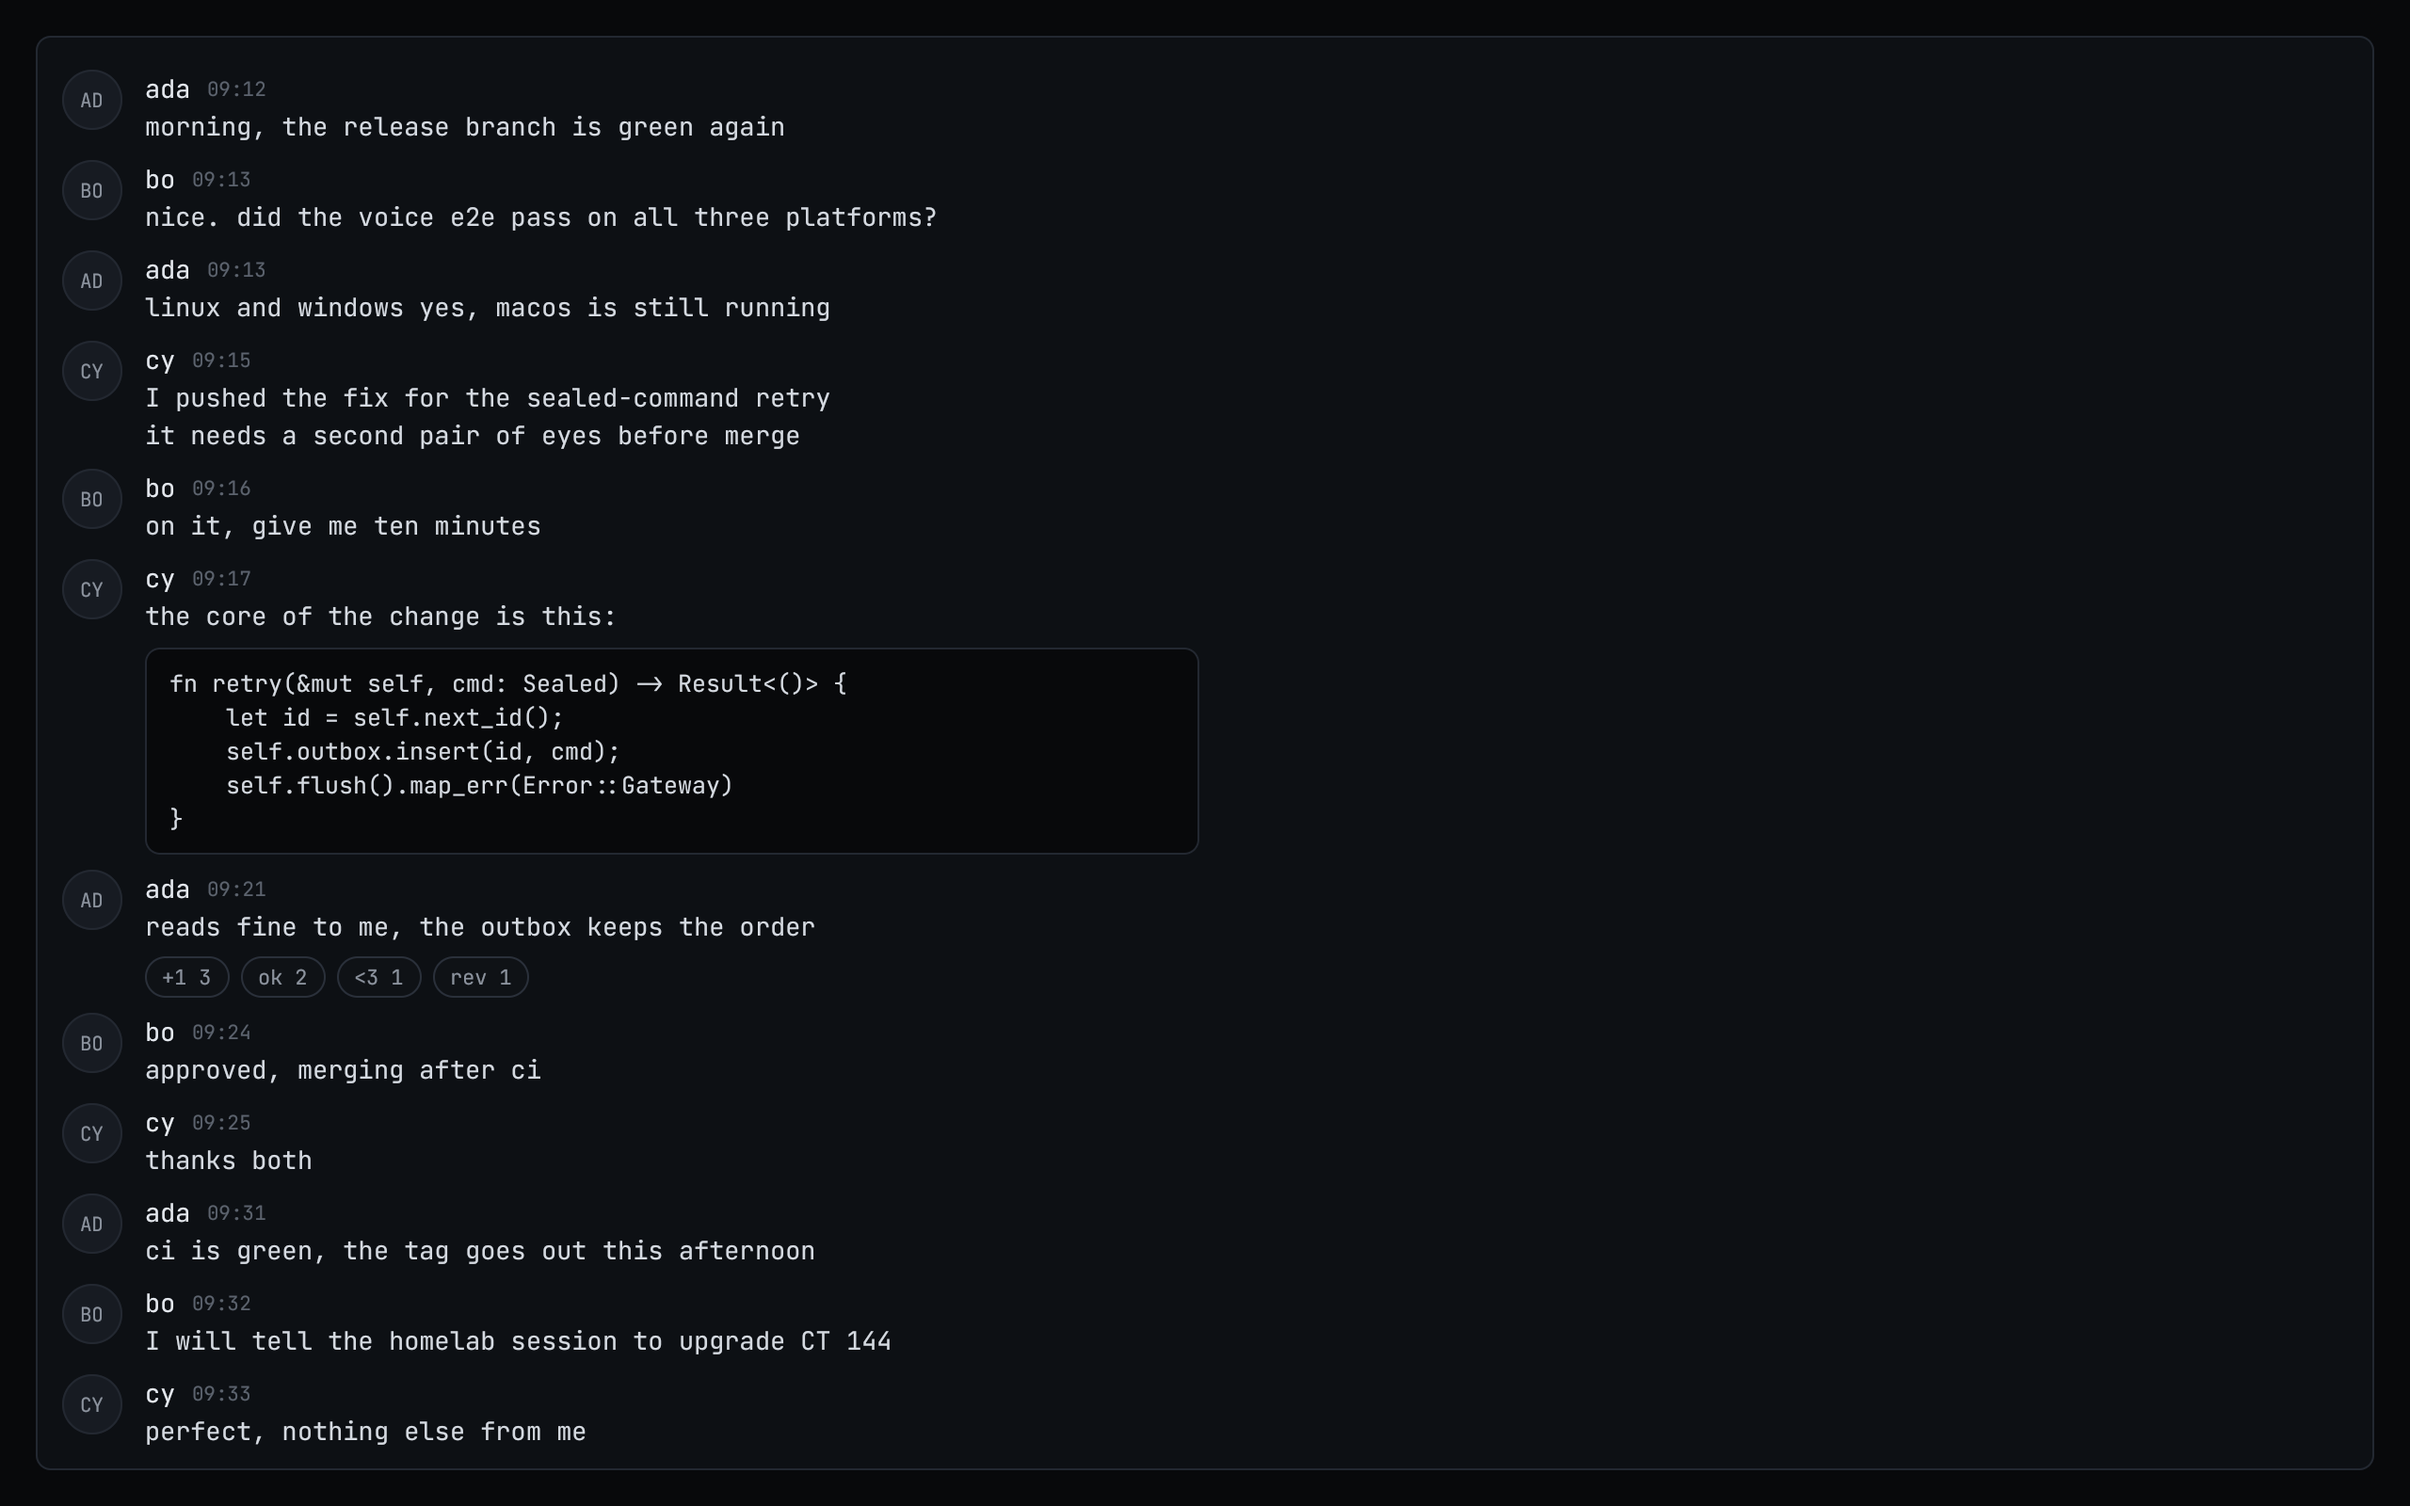
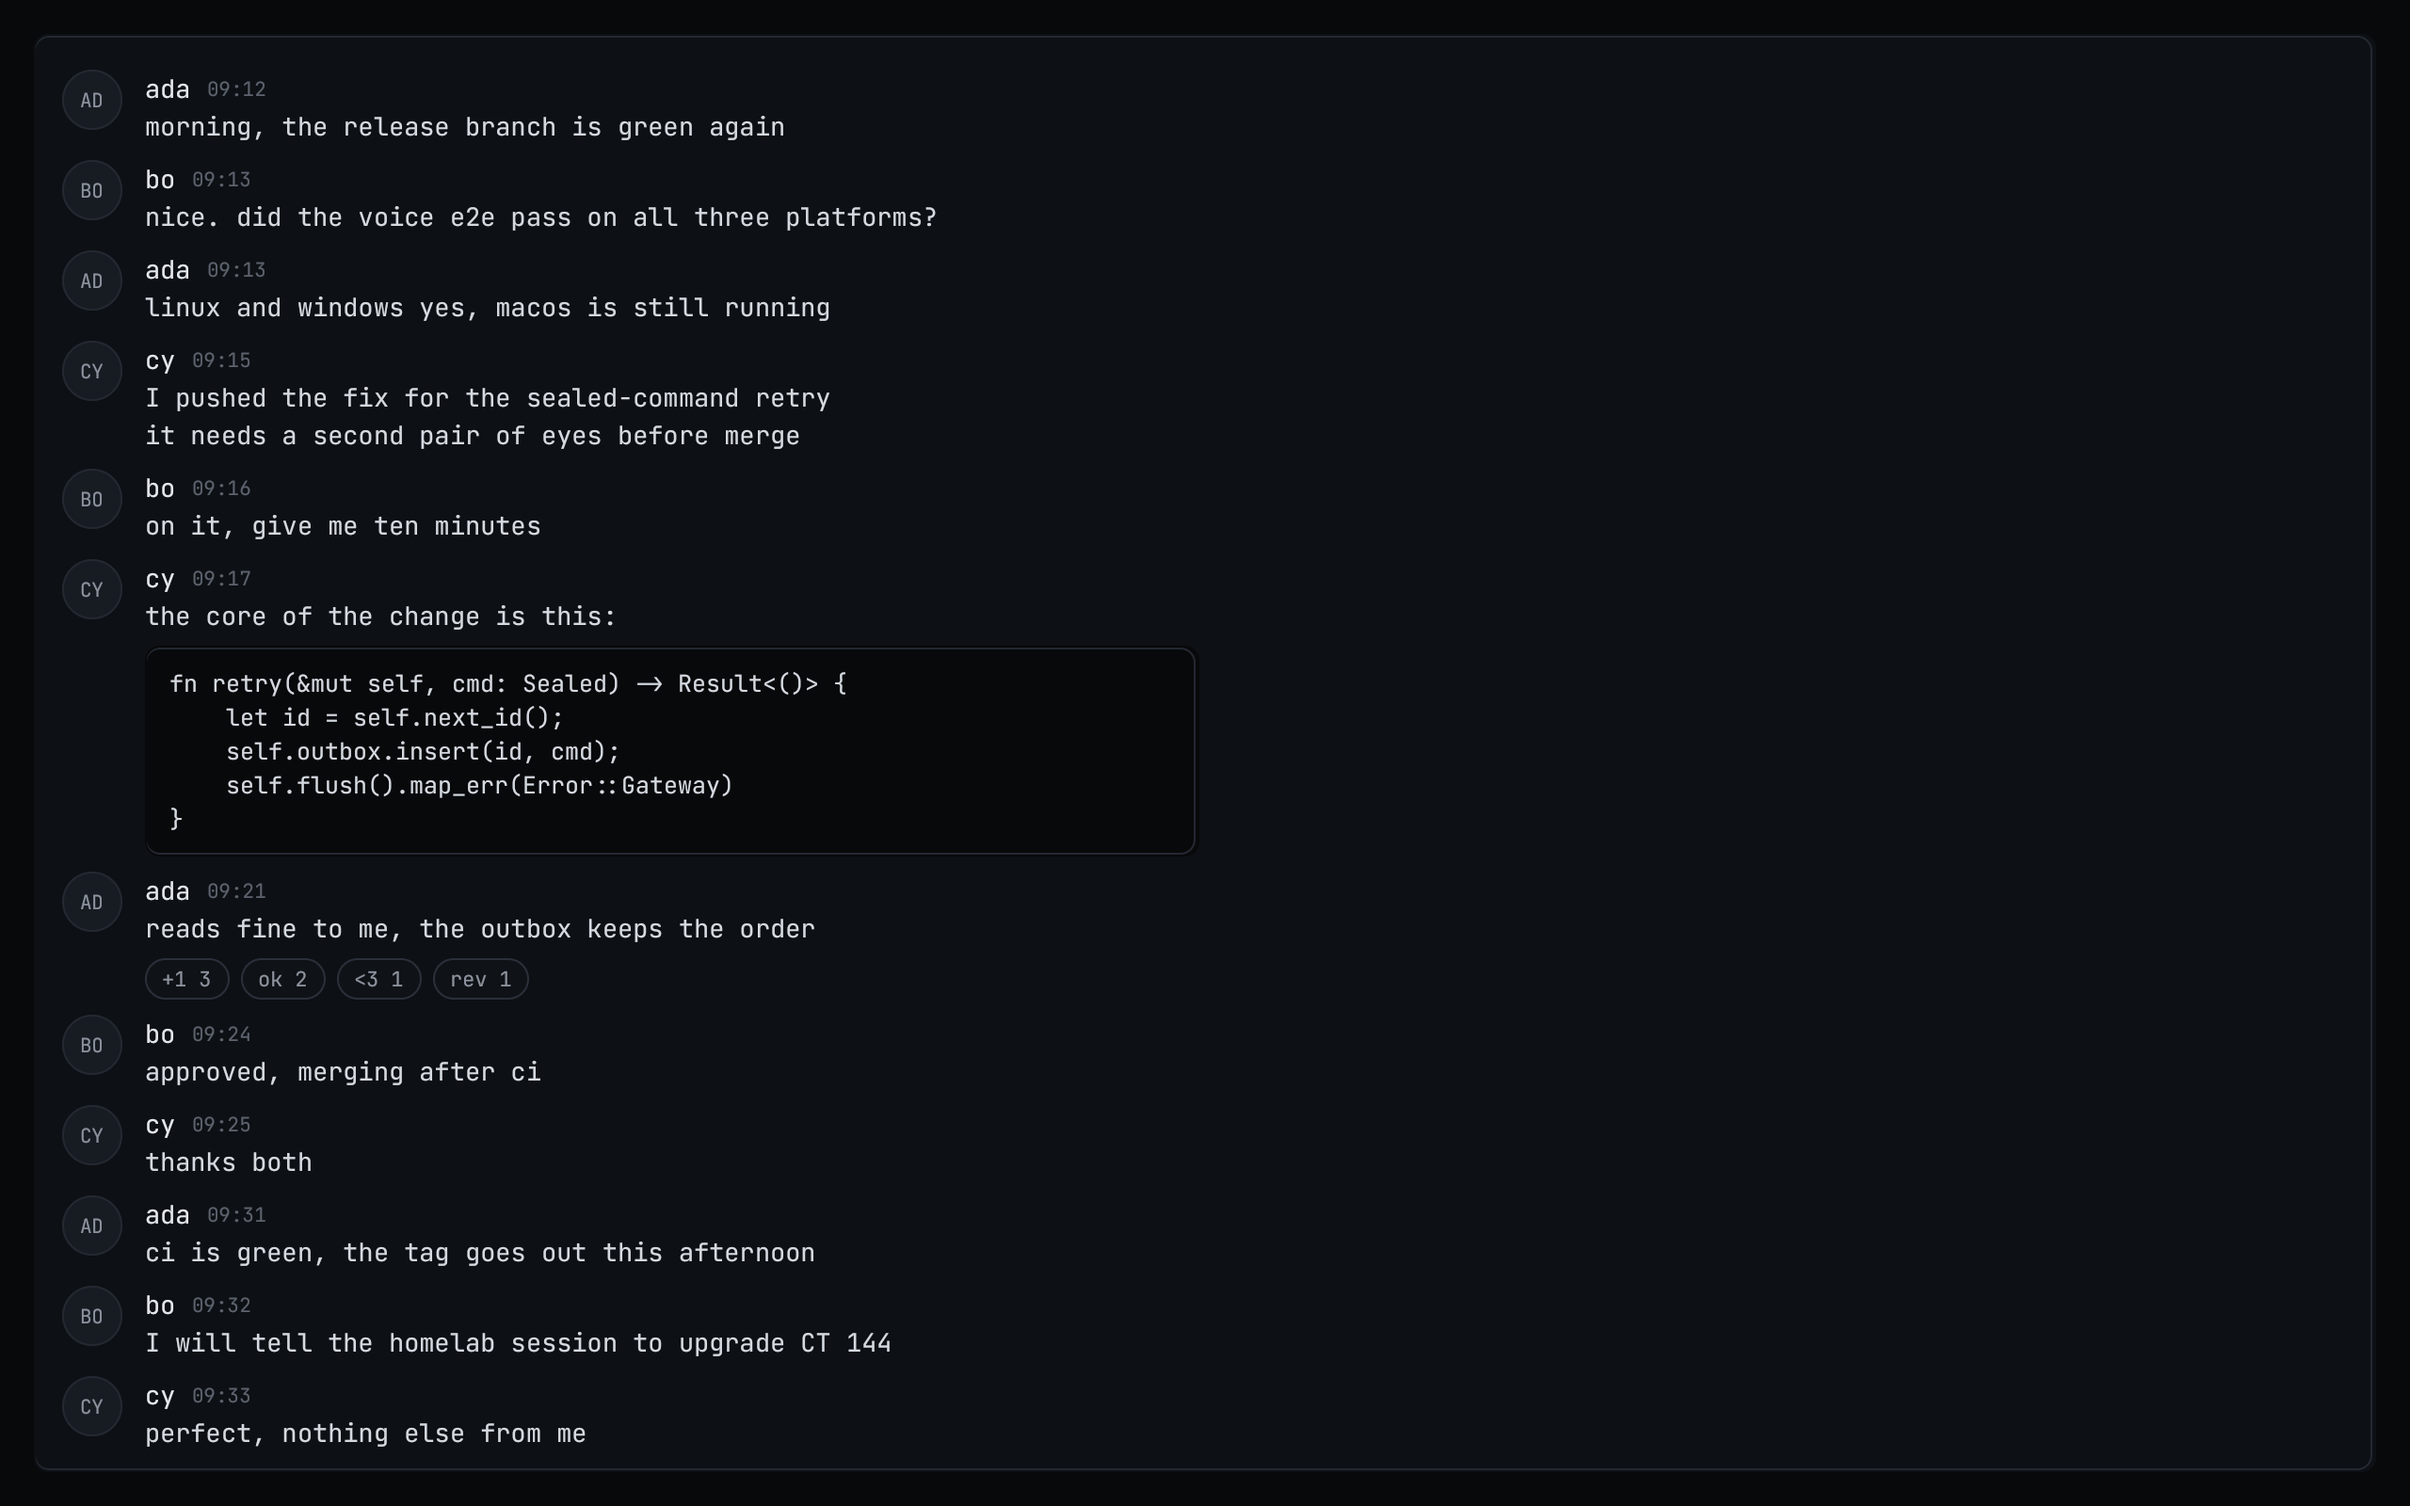
gpui proof: border-only negative fixture, layout-shift variant, known gap recorded
Claude-Session: https://claude.ai/code/session_012Nny5K2B969mk49QX3XSXG

diff --git a/experiments/gpui-pixel-proof/src/view.rs b/experiments/gpui-pixel-proof/src/view.rs
@@ -53,17 +53,22 @@ impl Render for Proof {
                 );
             }
             if !msg.code.is_empty() {
+                let dy = fx.border_dy;
                 let mut code = div()
+                    .relative()
                     .mt(p(l.code_margin_top))
                     .w(p(l.code_w))
                     .px(p(l.code_pad_x))
                     .py(p(l.code_pad_y))
                     .bg(rgb(fx.rgb("bg")))
                     .border(px(m))
-                    .border_color(rgb(fx.rgb("hairline2")))
+                    .border_color(rgb(fx.rgb(if dy == 0.0 { "hairline2" } else { "bg" })))
                     .rounded(p(fx.radius))
                     .flex()
                     .flex_col();
+                if dy != 0.0 {
+                    code = code.child(border_overlay(m, dy, fx.radius, fx.rgb("hairline2")));
+                }
                 for line in &msg.code {
                     code = code.child(
                         div()
@@ -123,21 +128,37 @@ impl Render for Proof {
             );
         }
 
+        let dy = fx.border_dy;
+        let mut panel = div()
+            .relative()
+            .size_full()
+            .overflow_hidden()
+            .bg(rgb(fx.rgb("surface")))
+            .border(px(m))
+            .border_color(rgb(fx.rgb(if dy == 0.0 { "hairline2" } else { "surface" })))
+            .rounded(p(fx.radius))
+            .p(p(l.panel_pad));
+        if dy != 0.0 {
+            panel = panel.child(border_overlay(m, dy, fx.radius, fx.rgb("hairline2")));
+        }
         div()
             .size_full()
             .bg(rgb(fx.rgb("bg")))
             .p(p(l.outer_pad))
             .font_family(family)
-            .child(
-                div()
-                    .size_full()
-                    .overflow_hidden()
-                    .bg(rgb(fx.rgb("surface")))
-                    .border(px(m))
-                    .border_color(rgb(fx.rgb("hairline2")))
-                    .rounded(p(fx.radius))
-                    .p(p(l.panel_pad))
-                    .child(feed),
-            )
+            .child(panel.child(feed))
     }
+}
+
+/// Negative fixture: an 1px border line drawn `dy` fixture px lower than its box, on top of a box whose own border is
+/// painted in the fill colour, so sizes and positions of everything else stay put.
+fn border_overlay(m: f32, dy: f32, radius: f32, color: u32) -> gpui::Div {
+    div()
+        .absolute()
+        .top(px(dy * m - m))
+        .left(px(-m))
+        .size_full()
+        .border(px(m))
+        .border_color(rgb(color))
+        .rounded(px(radius * m))
 }

diff --git a/experiments/gpui-pixel-proof/src/fixture.rs b/experiments/gpui-pixel-proof/src/fixture.rs
@@ -12,6 +12,9 @@ pub struct Fixture {
     pub authors: Vec<Author>,
     pub messages: Vec<Message>,
     pub layout: Layout,
+    /// Negative fixtures only: draw the box borders this many fixture px lower (0 in the real fixture).
+    #[serde(skip)]
+    pub border_dy: f32,
 }
 #[derive(Deserialize)]
 pub struct Font {
@@ -62,13 +65,15 @@ impl Fixture {
     pub fn apply_variant(&mut self, variant: &str) {
         match variant {
             "good" => {}
-            // (a) message text drawn in fg2 instead of fgBody
+            // (a) message and code-block text drawn in fg2 instead of fgBody
             "wrong-colour" => {
                 let v = self.tokens["fg2"].clone();
                 self.tokens.insert("fgBody".into(), v);
             }
-            // (b) the panel border and the code-block border one px lower, text and fills where they were
-            "border-shift" => {
+            // (b1) only the panel and code-block border lines one px lower; every size and position stays
+            "border-shift" => self.border_dy = 1.0,
+            // (b2) the panel and code block moved or resized by 1px (a layout shift, text and pills included)
+            "layout-shift" => {
                 self.layout.outer_pad += 1.0;
                 self.layout.panel_pad -= 1.0;
                 self.layout.code_margin_top += 1.0;

diff --git a/experiments/gpui-pixel-proof/REPORT.md b/experiments/gpui-pixel-proof/REPORT.md
@@ -80,28 +80,36 @@ is **greater than** `max_delta`; the check fails if more than `max_pct` percent 
 
 The first proposal (`220 3.9`) was not a gate: no pixel exceeds 214, so `max_delta` 220 never rejects anything, and 3.9 % is twice the 2 % budget. It is withdrawn.
 
-Choosing the pair: share of pixels over each delta, for the correct render and three deliberately wrong ones (`./validate-tolerance.sh linux 0 0 scan`):
+Choosing the pair: share of pixels over each delta, for the correct render and four deliberately wrong ones (`./validate-tolerance.sh linux 0 0 scan`):
 
 | variant | over 8 | over 16 | over 32 | over 48 | over 64 | over 96 | over 128 |
 |---|---|---|---|---|---|---|---|
 | good | 1.268 | 1.049 | 0.695 | 0.459 | 0.296 | 0.125 | 0.080 |
-| (a) wrong-colour: message text in fg2 instead of fgBody | 1.836 | 1.646 | 1.381 | 1.125 | 0.870 | 0.114 | 0.053 |
-| (b) border-shift: panel and code-block borders 1px lower | 2.726 | 2.493 | 1.649 | 0.881 | 0.699 | 0.474 | 0.364 |
+| (a) wrong-colour: message and code-block text in fg2 instead of fgBody | 1.836 | 1.646 | 1.381 | 1.125 | 0.870 | 0.114 | 0.053 |
+| (b1) border-shift: only the panel and code-block border lines drawn 1px lower, all sizes and positions unchanged | 2.224 | 2.003 | 0.941 | 0.459 | 0.296 | 0.125 | 0.080 |
+| (b2) layout-shift: panel and code block moved or resized by 1px (text and pills displaced too) | 2.726 | 2.493 | 1.649 | 0.881 | 0.699 | 0.474 | 0.364 |
 | (c) fallback-font: DejaVu Sans Mono instead of JetBrains Mono | 2.062 | 1.931 | 1.714 | 1.479 | 1.283 | 0.998 | 0.782 |
 
-A single pair separates them at delta 64: the correct render is at 0.296 %, the best wrong one at 0.699 %, so a limit of 0.5 % passes the first and fails all three
-(1.7x headroom above the correct render, 1.4x below the nearest wrong one). Validation, `./validate-tolerance.sh linux 64 0.5`:
+Validation, `./validate-tolerance.sh linux 64 0.5` (delta 64, limit 0.5 %):
 
 | render | expected | result | % over 64 (limit 0.5) |
 |---|---|---|---|
 | good | PASS | PASS | 0.296 |
 | (a) wrong-colour | FAIL | FAIL | 0.870 |
-| (b) border-shift | FAIL | FAIL | 0.699 |
+| (b1) border-shift (border lines only) | FAIL | **PASS, known gap** | 0.296 |
+| (b2) layout-shift | FAIL | FAIL | 0.699 |
 | (c) fallback-font | FAIL | FAIL | 1.283 |
 
-The withdrawn `220 3.9` run through the same script passes all three wrong renders (`WRONG` x3).
+**A pure 1px border shift is below this gate's resolution; it needs a region-aware gate.** The border colours (hairline2 on bg, delta about 40) never exceed 64, so
+at delta 64 the border-only fixture scores exactly the same as the correct render. It is visible at lower deltas (2.2 % over 8 against 1.3 %), but no
+global (delta, percent) pair separates it from the correct render without also failing the correct one's own text anti-aliasing noise, and the pair
+was deliberately not retuned to force it. An earlier version of this table called the layout shift a "border shift": it moved text and pills as well, which is what
+made it fail; it is now (b2). `validate-tolerance.sh` reports (b1) as `KNOWN-GAP` without failing the Linux workflow step.
 
-Limits of this gate: it is validated against these three faults only. Margins are 1.4x to 1.7x, not large, and it is calibrated on one fixture, one Linux GPU
+Earlier choice of pair: delta 64 separates the correct render (0.296 %) from (a), (b2) and (c) (best wrong one 0.699 %), so a limit of 0.5 % passes the first and fails those three
+(1.7x headroom above the correct render, 1.4x below the nearest wrong one). The withdrawn `220 3.9` passes all of them.
+
+Limits of this gate: it is validated against faults (a), (b2) and (c) only; (b1) is a known miss. Margins are 1.4x to 1.7x, not large, and it is calibrated on one fixture, one Linux GPU
 and one Chromium; a different GPU driver or Chromium may move the "good" figure. A colour error smaller than about 64 levels on text, or text in a
 fixture with little text, would be caught less reliably. The `DejaVu Sans Mono` fallback only exists on Linux. At scale 1.0 the pair is not validated.
 
